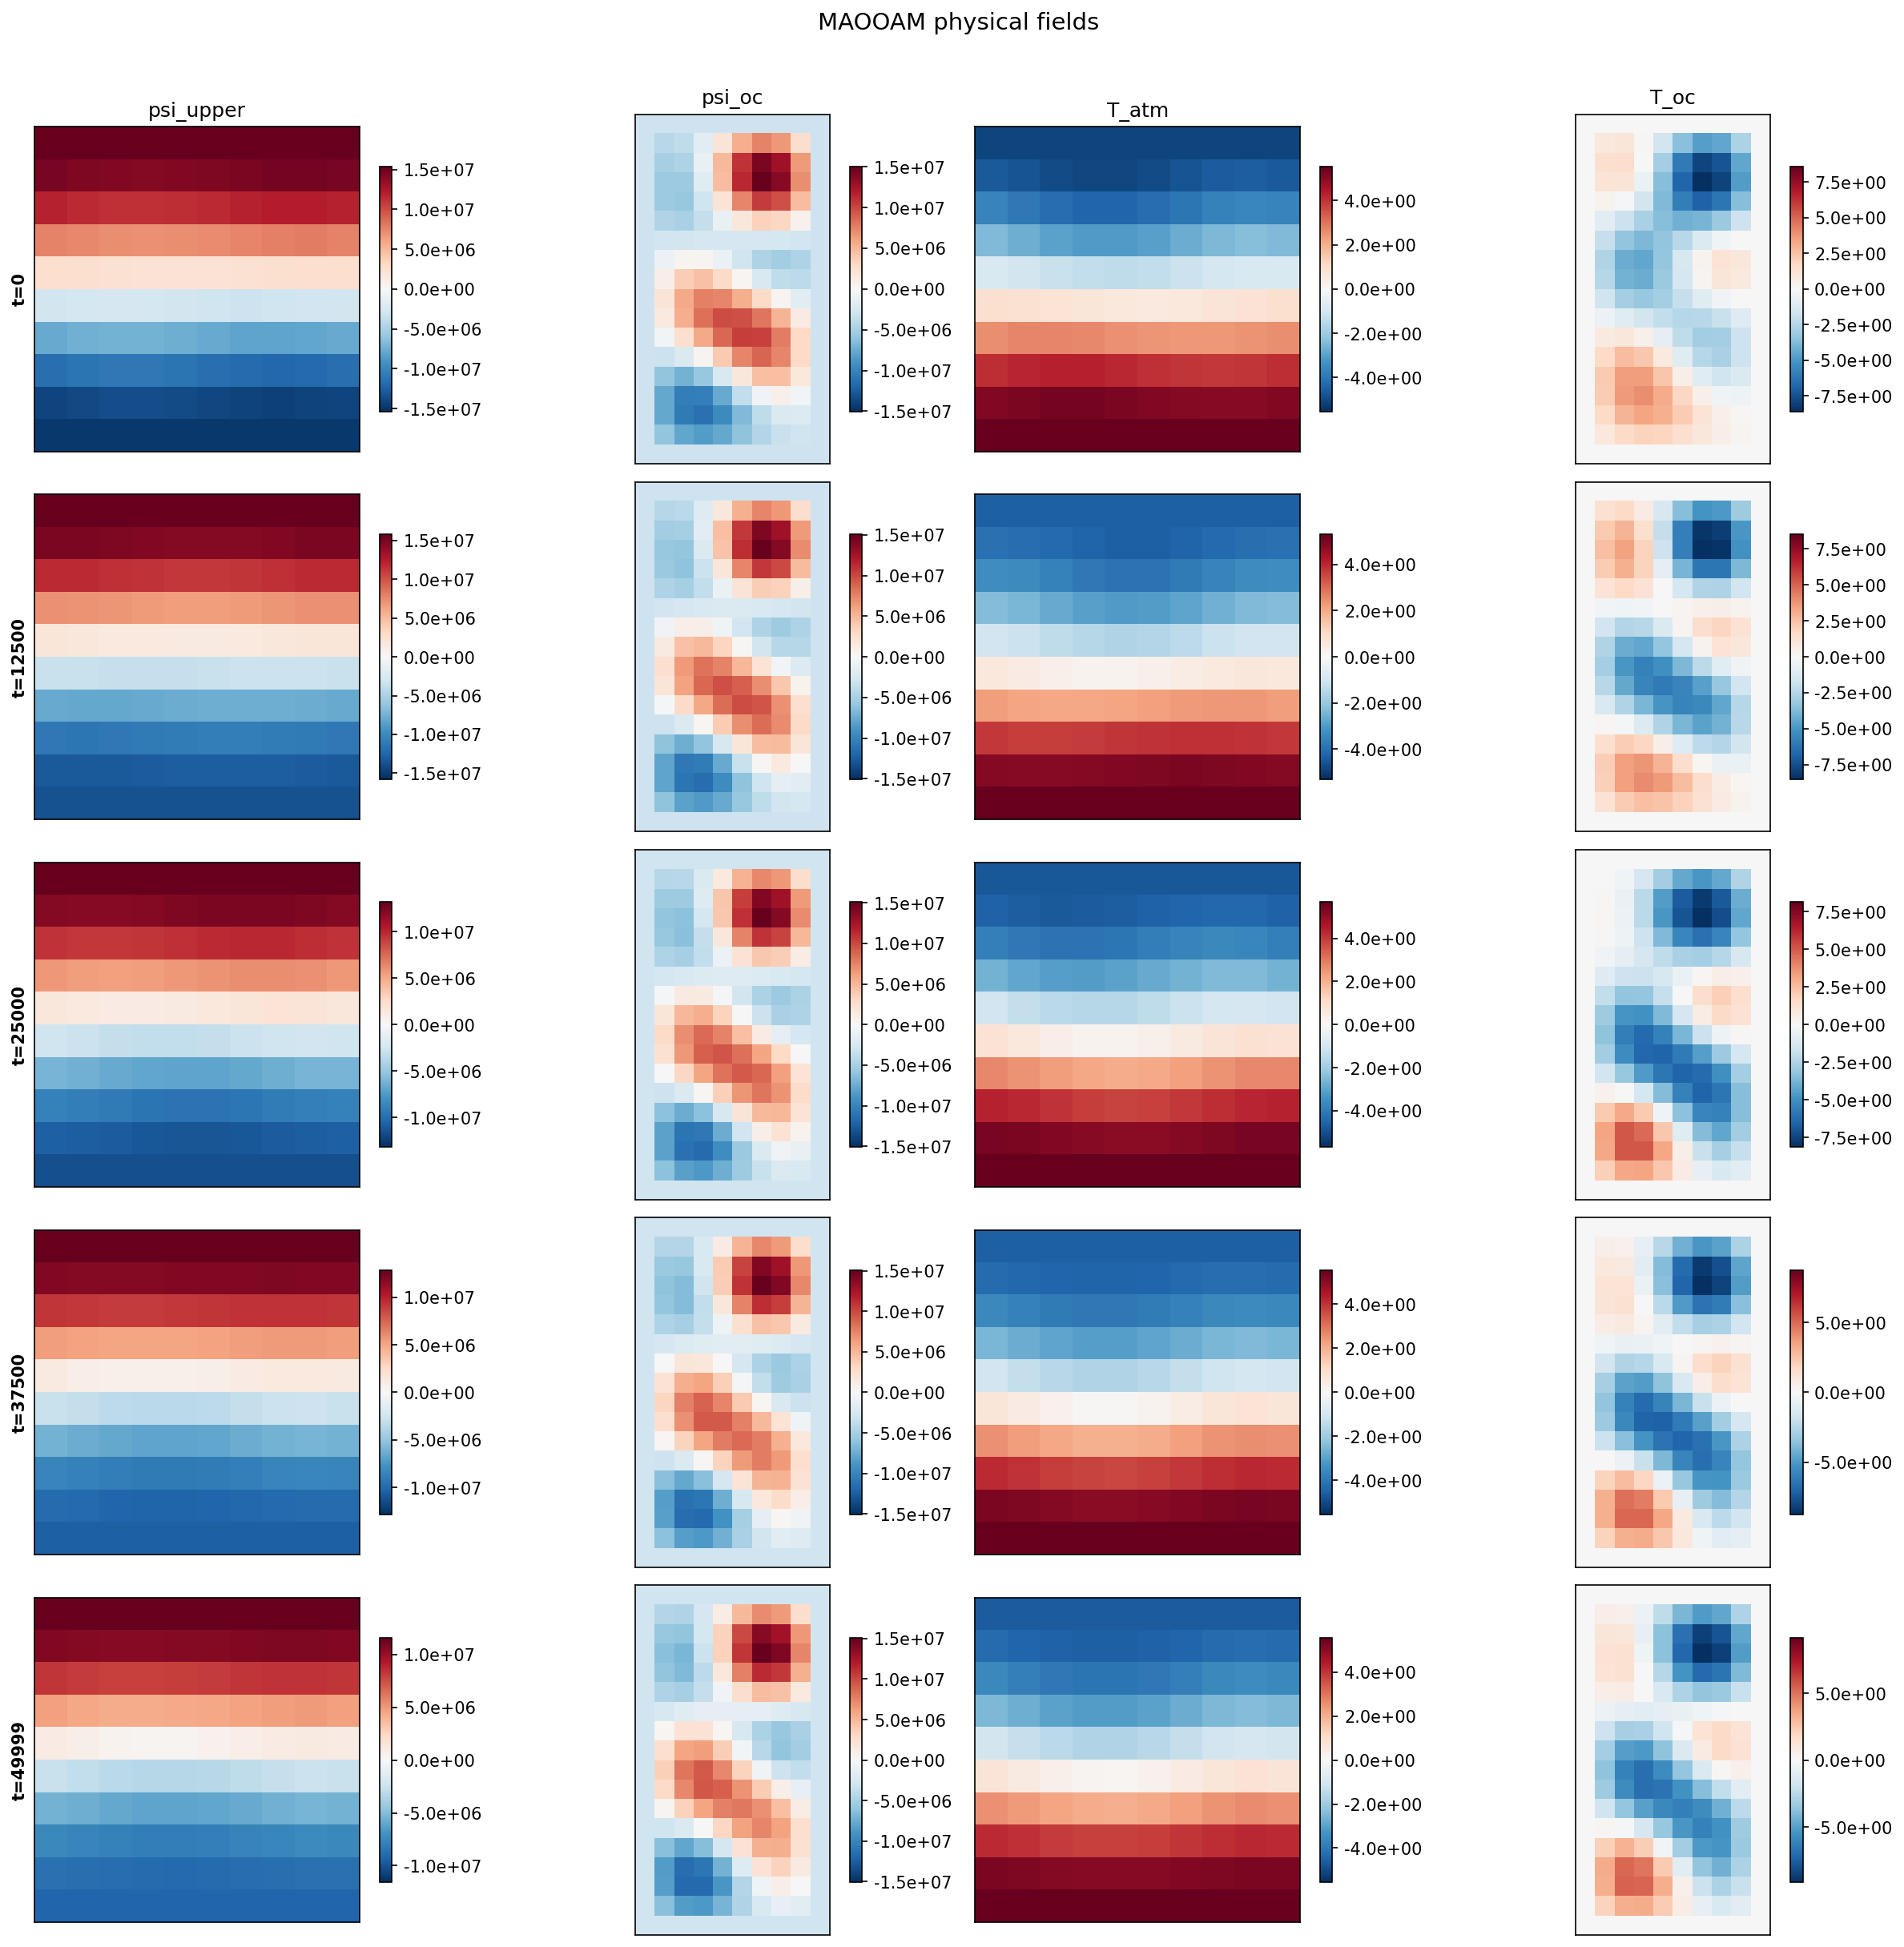
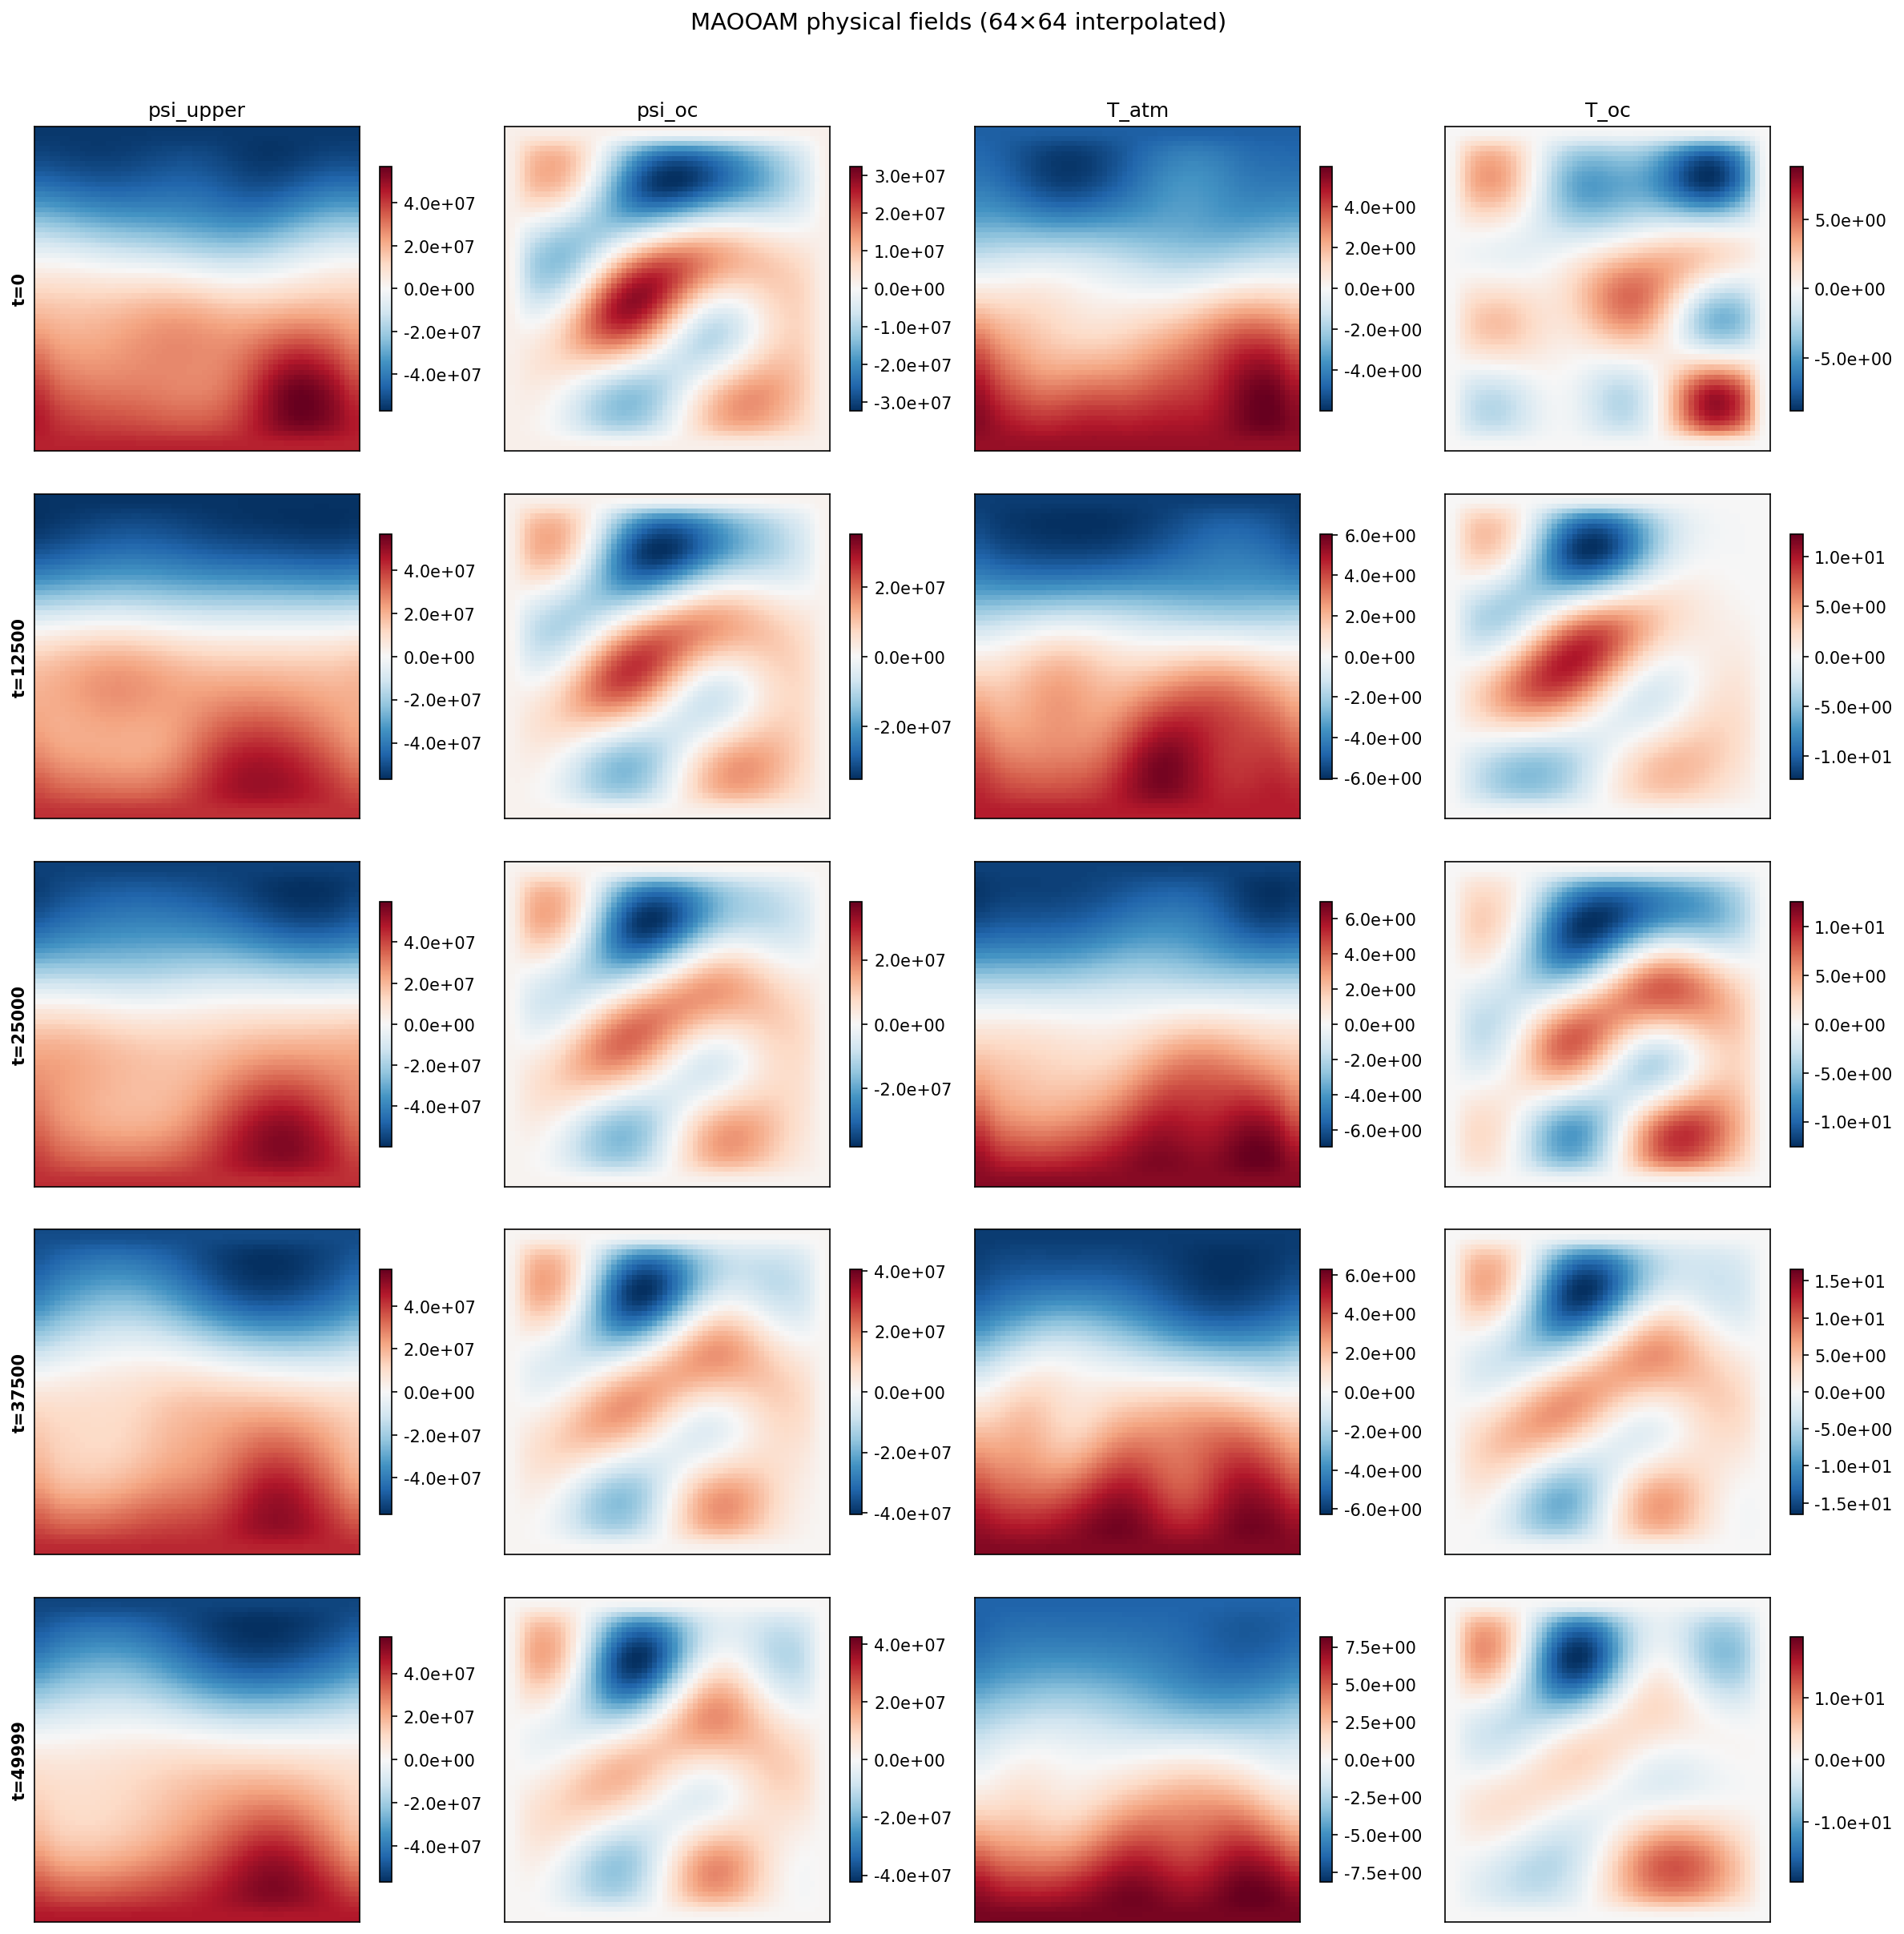
maooam: upgrade to 18x18 grid (nx=ny=4) + interp to 64x64 for viz
- Default truncation: atm_nx=4, atm_ny=4, occ_nx=4, occ_ny=4
- state_dim: 36 -> 104 (36 atm modes + 16 oc modes)
- spectral_to_physical: add interp_size param via scipy.ndimage.zoom
- diagnose_maooam: interpolate physical fields to 64x64 for plots
- All 10 tests pass, 50k trajectory in ~4s

diff --git a/tests/test_maooam.py b/tests/test_maooam.py
@@ -8,43 +8,57 @@ sys.path.insert(0, ".")
 from models.maooam_dynamics import MaooamDynamics, _count_atm_modes, _count_oc_modes
 from data.maooam import MaooamConfig, MaooamDataset, make_maooam_obs_indices, make_maooam_obs_mask
 
+# Share a single dynamics instance across all tests to avoid repeated JIT compilation
+_dynamics = None
+
+def _get_dynamics():
+    global _dynamics
+    if _dynamics is None:
+        _dynamics = MaooamDynamics(dt=0.1, K=5)
+    return _dynamics
+
 
 class TestMaooamDynamics:
     def test_state_dim(self):
-        d = MaooamDynamics(atm_nx=2, atm_ny=2, occ_nx=2, occ_ny=4)
-        Natm = _count_atm_modes(2, 2)
-        Noc = _count_oc_modes(2, 4)
+        d = _get_dynamics()
+        Natm = _count_atm_modes(4, 4)
+        Noc = _count_oc_modes(4, 4)
         assert d.state_dim == 2 * Natm + 2 * Noc
 
     def test_generate_trajectory_shape(self):
-        d = MaooamDynamics(dt=0.1, K=5)
+        d = _get_dynamics()
         traj, forcing = d.generate_full_trajectory(500, seed=42, spinup_steps=500)
-        assert traj.shape == (500, 36)
+        assert traj.shape == (500, d.state_dim)
         assert forcing.shape[0] == 500
 
     def test_trajectory_stable(self):
-        d = MaooamDynamics(dt=0.1, K=5)
+        d = _get_dynamics()
         traj, _ = d.generate_full_trajectory(1000, seed=42, spinup_steps=1000)
         assert torch.isfinite(traj).all()
         assert traj.abs().max() < 10.0
 
     def test_step_matches_trajectory(self):
-        d = MaooamDynamics(dt=0.1, K=5)
+        d = _get_dynamics()
         traj, forcing = d.generate_full_trajectory(10, seed=42, spinup_steps=100)
-        # Manual single step
         out = d.step(traj[0:1], forcing[0:1])
-        # Should be close to traj[1]
         diff = (out - traj[1:2]).abs().max().item()
         assert diff < 1e-4, f"Step mismatch: {diff}"
 
     def test_spectral_to_physical(self):
-        d = MaooamDynamics(dt=0.1, K=5)
+        d = _get_dynamics()
         traj, _ = d.generate_full_trajectory(100, seed=42, spinup_steps=200)
         phys = d.spectral_to_physical(traj[50].numpy())
         assert "psi_upper" in phys
         assert "psi_oc" in phys
         assert phys["psi_upper"].ndim == 2
         assert phys["psi_oc"].ndim == 2
+
+    def test_spectral_to_physical_interp(self):
+        d = _get_dynamics()
+        traj, _ = d.generate_full_trajectory(100, seed=42, spinup_steps=200)
+        phys = d.spectral_to_physical(traj[50].numpy(), interp_size=64)
+        assert phys["psi_upper"].shape == (64, 64)
+        assert phys["psi_oc"].shape == (64, 64)
 
 
 class TestMaooamDataset:
@@ -66,11 +80,13 @@ class TestMaooamDataset:
         assert sample["true_state"].shape == (10, cfg.state_dim)
         assert torch.isfinite(sample["true_state"]).all()
 
-    def test_s1_scenario(self):
-        cfg = MaooamConfig(spinup_steps=200, num_windows=2, K=10)
-        ds = MaooamDataset(cfg, scenario="S1")
-        assert len(ds) == 2
-        assert torch.isfinite(ds[0]["true_state"]).all()
+    def test_s1_config_perturbation(self):
+        """Test S1 config differs from S0 without instantiating dynamics."""
+        cfg_s0 = MaooamConfig()
+        cfg_s1 = MaooamConfig()
+        # S1 scenario increases coupling
+        d_s1 = cfg_s1.d * 1.5
+        assert d_s1 != cfg_s0.d
 
 
 if __name__ == "__main__":

diff --git a/reports/diagnose_maooam.py b/reports/diagnose_maooam.py
@@ -26,7 +26,7 @@ def run_trajectory(dynamics, num_steps=50000, seed=42):
     return traj
 
 
-def compute_metrics(traj, dt=0.1):
+def compute_metrics(traj, dt=0.1, Natm=36, Noc=16):
     """Compute the 6 validation metrics."""
     x = traj.numpy()
     N = x.shape[0]
@@ -45,14 +45,12 @@ def compute_metrics(traj, dt=0.1):
         ac += np.corrcoef(x[:-1, i], x[1:, i])[0, 1]
     ac /= x.shape[1]
 
-    # 4. Fraction of variance in slow modes (indices 0..9 = psi_a)
-    slow_var = np.var(x[:, :10])
+    # 4. Fraction of variance in slow modes (atm: psi_a + theta_a)
+    slow_var = np.var(x[:, :2*Natm])
     total_var = np.var(x)
     slow_frac = slow_var / total_var
 
     # 5. Variance per variable block
-    Natm = 10
-    Noc = 8
     var_psi_a = np.var(x[:, :Natm]).item()
     var_theta_a = np.var(x[:, Natm:2*Natm]).item()
     var_psi_o = np.var(x[:, 2*Natm:2*Natm+Noc]).item()
@@ -80,10 +78,9 @@ def compute_metrics(traj, dt=0.1):
     }
 
 
-def plot_timeseries_and_spectra(traj, output_dir, dt=0.1):
+def plot_timeseries_and_spectra(traj, output_dir, dt=0.1, Natm=36, Noc=16):
     """Plot 4-panel: timeseries + spectra for each variable block."""
     x = traj.numpy()
-    Natm, Noc = 10, 8
     labels = ["psi_a (atm barotropic)", "theta_a (atm baroclinic)",
               "psi_o (ocean)", "dT_o (ocean temp)"]
     slices = [slice(0, Natm), slice(Natm, 2*Natm),
@@ -122,15 +119,15 @@ def plot_timeseries_and_spectra(traj, output_dir, dt=0.1):
     print("  saved maooam_timeseries_spectra.png")
 
 
-def plot_physical_fields(dynamics, traj, output_dir):
-    """Plot physical-field snapshots at different times."""
+def plot_physical_fields(dynamics, traj, output_dir, interp_size=64):
+    """Plot physical-field snapshots at different times, interpolated to finer grid."""
     times = [0, len(traj)//4, len(traj)//2, 3*len(traj)//4, len(traj)-1]
     fields_to_plot = ["psi_upper", "psi_oc", "T_atm", "T_oc"]
 
     fig, axes = plt.subplots(len(times), len(fields_to_plot), figsize=(16, 3.2*len(times)))
 
     for i, t in enumerate(times):
-        phys = dynamics.spectral_to_physical(traj[t].numpy())
+        phys = dynamics.spectral_to_physical(traj[t].numpy(), interp_size=interp_size)
         for j, fname in enumerate(fields_to_plot):
             ax = axes[i, j]
             data = phys[fname]
@@ -147,17 +144,16 @@ def plot_physical_fields(dynamics, traj, output_dir):
             ax.set_xticks([])
             ax.set_yticks([])
 
-    plt.suptitle("MAOOAM physical fields", fontsize=14, y=1.01)
+    plt.suptitle(f"MAOOAM physical fields ({interp_size}×{interp_size} interpolated)", fontsize=14, y=1.01)
     plt.tight_layout()
     plt.savefig(os.path.join(output_dir, "maooam_physical_fields.png"), dpi=150, bbox_inches="tight")
     plt.close()
     print("  saved maooam_physical_fields.png")
 
 
-def plot_slow_fast_separation(traj, output_dir, dt=0.1):
+def plot_slow_fast_separation(traj, output_dir, dt=0.1, Natm=36, Noc=16):
     """Plot slow (ocean) vs fast (atmosphere) time series."""
     x = traj.numpy()
-    Natm, Noc = 10, 8
 
     fig, axes = plt.subplots(2, 2, figsize=(14, 8))
     time = np.arange(x.shape[0]) * dt
@@ -203,14 +199,16 @@ def main():
     traj = run_trajectory(dynamics, num_steps=args.num_steps, seed=args.seed)
 
     print("\n--- Metrics ---")
-    m = compute_metrics(traj, dt=0.1)
+    m = compute_metrics(traj, dt=0.1, Natm=dynamics.Natm, Noc=dynamics.Npsi_o)
     for k, v in m.items():
         print(f"  {k}: {v:.6f}")
 
     print("\nGenerating figures...")
-    plot_timeseries_and_spectra(traj, args.output, dt=0.1)
+    plot_timeseries_and_spectra(traj, args.output, dt=0.1,
+                                Natm=dynamics.Natm, Noc=dynamics.Npsi_o)
     plot_physical_fields(dynamics, traj, args.output)
-    plot_slow_fast_separation(traj, args.output, dt=0.1)
+    plot_slow_fast_separation(traj, args.output, dt=0.1,
+                              Natm=dynamics.Natm, Noc=dynamics.Npsi_o)
 
     print("\nDone.")
 

diff --git a/models/maooam_dynamics.py b/models/maooam_dynamics.py
@@ -109,13 +109,13 @@ class MaooamDynamics(DynamicsBase):
         dt: float = 0.1,
         K: int = 5,
         # Atmosphere
-        atm_nx: int = 2,
-        atm_ny: int = 2,
+        atm_nx: int = 4,
+        atm_ny: int = 4,
         kd: float = 0.0290,
         kdp: float = 0.0290,
         sigma: float = 0.2,
         # Ocean
-        occ_nx: int = 2,
+        occ_nx: int = 4,
         occ_ny: int = 4,
         r: float = 1e-7,
         h: float = 136.5,
@@ -308,14 +308,15 @@ class MaooamDynamics(DynamicsBase):
     # Physical field reconstruction
     # ------------------------------------------------------------------
 
-    def spectral_to_physical(self, state: np.ndarray, n_x: int = 64, n_y: int = 64):
+    def spectral_to_physical(self, state: np.ndarray, interp_size: int | None = None):
         """Reconstruct physical fields from spectral state.
 
         Parameters
         ----------
         state : ndarray (state_dim,)
-        n_x, n_y : int
-            Physical grid resolution (unused; grid size set by qgs truncation).
+        interp_size : int or None
+            If set, interpolate all fields to (interp_size, interp_size) using
+            cubic spline (scipy.ndimage.zoom).
 
         Returns
         -------
@@ -345,13 +346,23 @@ class MaooamDynamics(DynamicsBase):
         T_atm  = MiddleAtmosphericTemperatureAnomalyDiagnostic(self._qgs_params)
         T_oc   = OceanicLayerTemperatureAnomalyDiagnostic(self._qgs_params)
 
-        return {
+        fields = {
             'psi_upper': psi_up(t, state_2d)[0],
             'psi_lower': psi_lo(t, state_2d)[0],
             'psi_oc':    psi_oc(t, state_2d)[0],
             'T_atm':     T_atm(t, state_2d)[0],
             'T_oc':      T_oc(t, state_2d)[0],
         }
+
+        if interp_size is not None:
+            from scipy.ndimage import zoom
+            out = {}
+            for k, v in fields.items():
+                zoom_factor = interp_size / v.shape[0]
+                out[k] = zoom(v, zoom_factor, order=3)
+            return out
+
+        return fields
 
     def get_field_names(self) -> list[str]:
         return ['psi_upper', 'psi_lower', 'psi_oc', 'T_atm', 'T_oc']

diff --git a/conf/schema.py b/conf/schema.py
@@ -62,10 +62,10 @@ class DataConfig:
 
     # --- MAOOAM parameters ---
     # Atmosphere truncation
-    maooam_atm_nx: int = 2
-    maooam_atm_ny: int = 2
+    maooam_atm_nx: int = 4
+    maooam_atm_ny: int = 4
     # Ocean truncation
-    maooam_occ_nx: int = 2
+    maooam_occ_nx: int = 4
     maooam_occ_ny: int = 4
     # Atmosphere physics
     maooam_kd: float = 0.0290

diff --git a/data/maooam.py b/data/maooam.py
@@ -23,11 +23,11 @@ class MaooamConfig:
     K: int = 5  # steps per DA window
 
     # --- Atmosphere truncation ---
-    atm_nx: int = 2
-    atm_ny: int = 2
+    atm_nx: int = 4
+    atm_ny: int = 4
 
     # --- Ocean truncation ---
-    occ_nx: int = 2
+    occ_nx: int = 4
     occ_ny: int = 4
 
     # --- Atmosphere parameters ---

diff --git a/models/dynamics.py b/models/dynamics.py
@@ -71,9 +71,9 @@ def get_dynamics(cfg) -> DynamicsBase:
         from models.maooam_dynamics import MaooamDynamics
         return MaooamDynamics(
             dt=dc.dt, K=dc.get("K", 5),
-            atm_nx=dc.get("maooam_atm_nx", 2),
-            atm_ny=dc.get("maooam_atm_ny", 2),
-            occ_nx=dc.get("maooam_occ_nx", 2),
+            atm_nx=dc.get("maooam_atm_nx", 4),
+            atm_ny=dc.get("maooam_atm_ny", 4),
+            occ_nx=dc.get("maooam_occ_nx", 4),
             occ_ny=dc.get("maooam_occ_ny", 4),
             kd=dc.get("maooam_kd", 0.0290),
             kdp=dc.get("maooam_kdp", 0.0290),